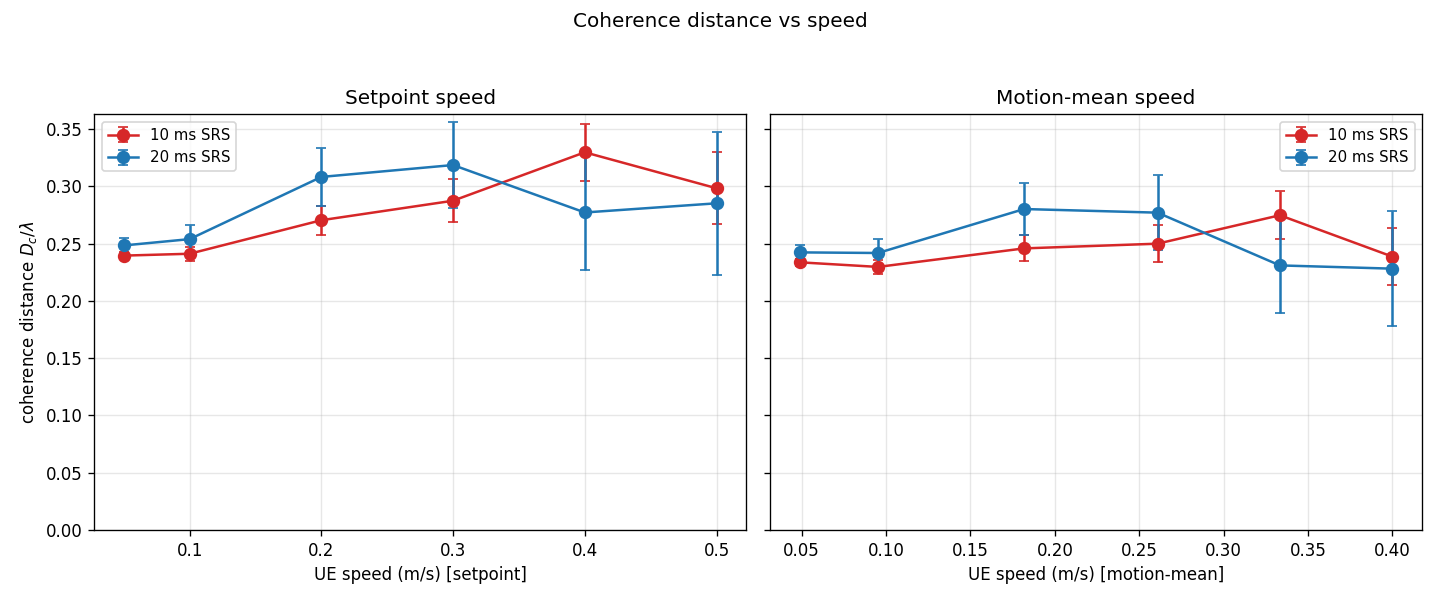
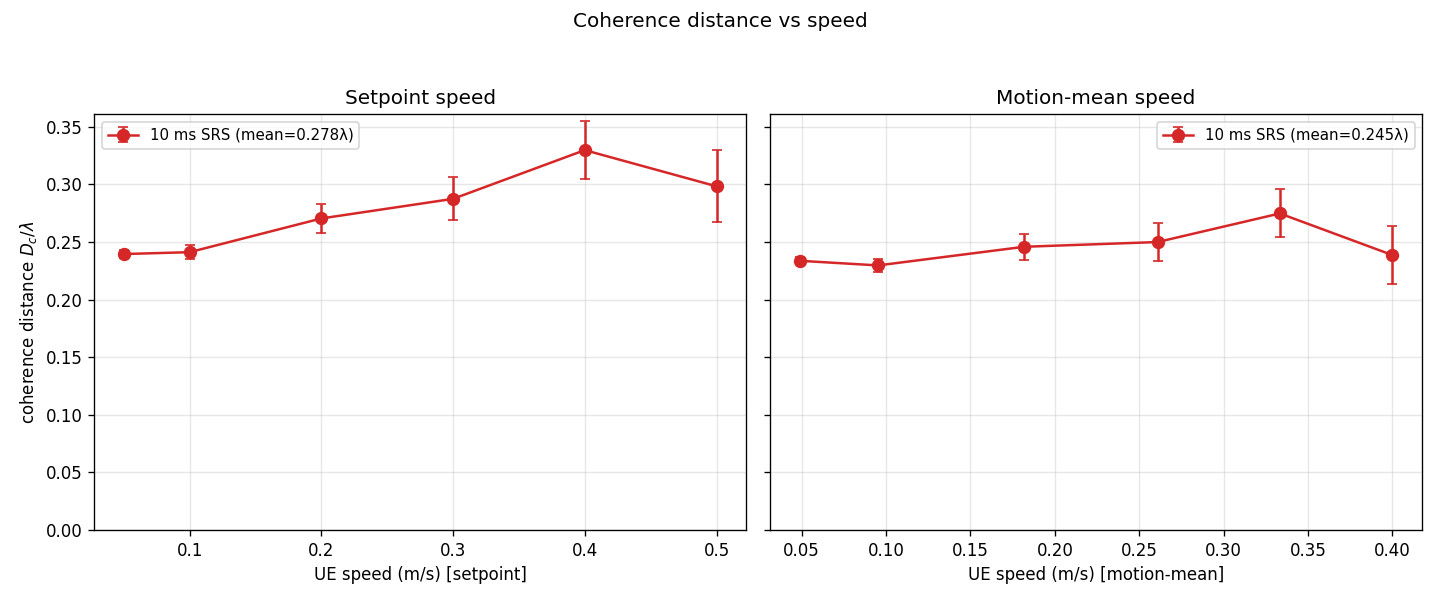
plot_coherence_distance.py: add mean value (in lambda) to legend, remove band overlay, add --only-win filter; Dc_10ms_errorbar.png shows 10ms only, coherence_distance.png shows both rates; regenerate all mobility/coherence-distance plots with current RU-averaged Tc

diff --git a/tools/plot_coherence_distance.py b/tools/plot_coherence_distance.py
@@ -30,6 +30,7 @@ def main():
     ap.add_argument("--freq-ghz",type=float,default=3.75)
     ap.add_argument("--drop-speed",type=float,nargs="*",default=[0.02])
     ap.add_argument("--err-samples",type=float,default=0.5)
+    ap.add_argument("--only-win",type=int,default=None,help="restrict to one SRS rate (10 or 20)")
     ap.add_argument("-o","--out",default="coherence_distance.png")
     ap.add_argument("--win",type=int,default=None)
     args=ap.parse_args()
@@ -43,13 +44,18 @@ def main():
         return vset,veff,Tc
     d10,d20=subset(10),subset(20)
     fig,axes=plt.subplots(1,2,figsize=(12,5),sharey=True)
+    series=[(d10,"#d62728","10 ms SRS",10),(d20,"#1f77b4","20 ms SRS",20)]
+    if args.only_win is not None:
+        series=[s for s in series if s[3]==args.only_win]
     for ax,mode in zip(axes,["setpoint","motion-mean"]):
-        for (vset,veff,Tc),col,lab,win in [(d10,"#d62728","10 ms SRS",10),(d20,"#1f77b4","20 ms SRS",20)]:
+        for (vset,veff,Tc),col,lab,win in series:
             if len(vset)==0: continue
             vx=vset if mode=="setpoint" else veff
             Dc=vx*Tc/lam
             dDc=vx*(args.err_samples*win/1000.0)/lam
-            ax.errorbar(vx,Dc,yerr=dDc,fmt='o-',color=col,ms=7,lw=1.5,capsize=3,label=lab)
+            m=Dc.mean()
+            ax.errorbar(vx,Dc,yerr=dDc,fmt='o-',color=col,ms=7,lw=1.5,capsize=3,
+                        label=f'{lab} (mean={m:.3f}\u03bb)')
         ax.set_xlabel(f"UE speed (m/s) [{mode}]"); ax.grid(alpha=0.3); ax.legend(fontsize=9)
         ax.set_ylim(0,None)
     axes[0].set_ylabel("coherence distance $D_c/\\lambda$")
